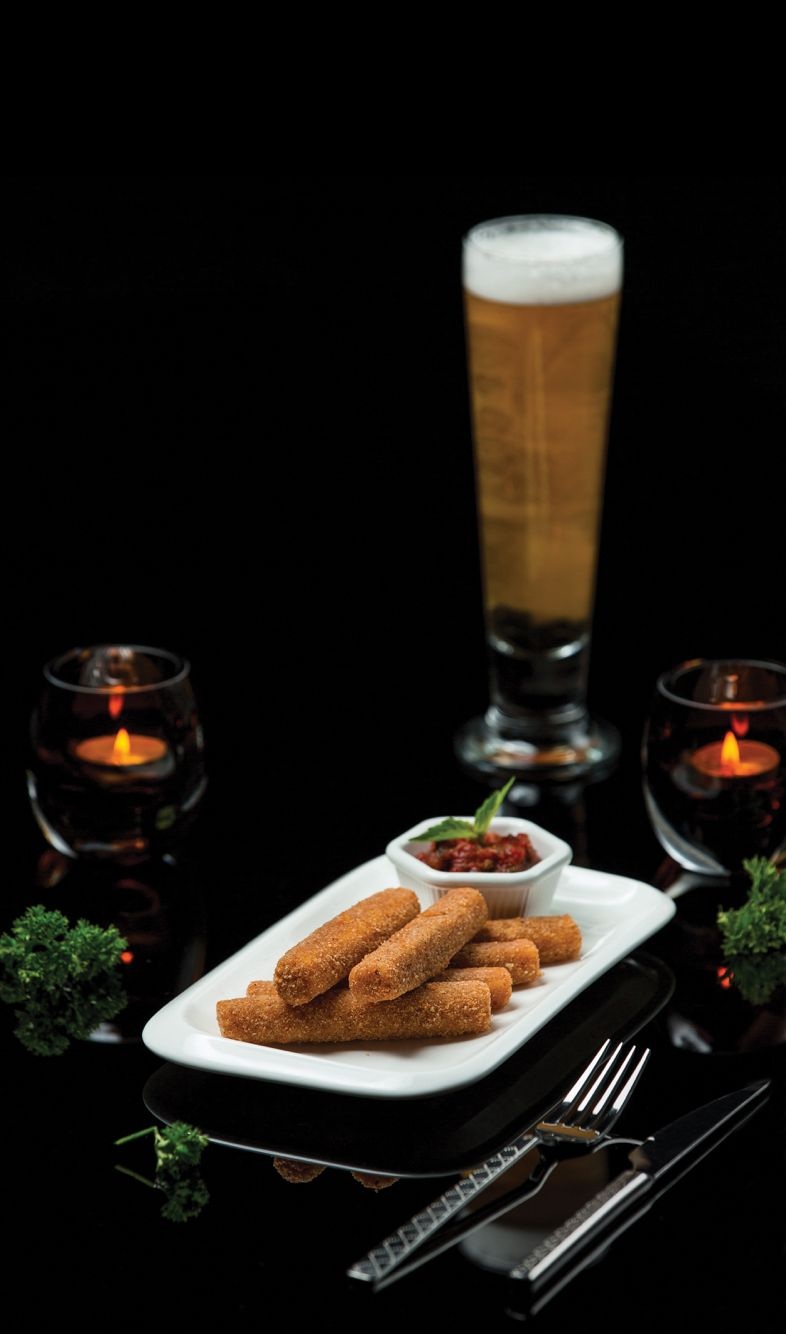
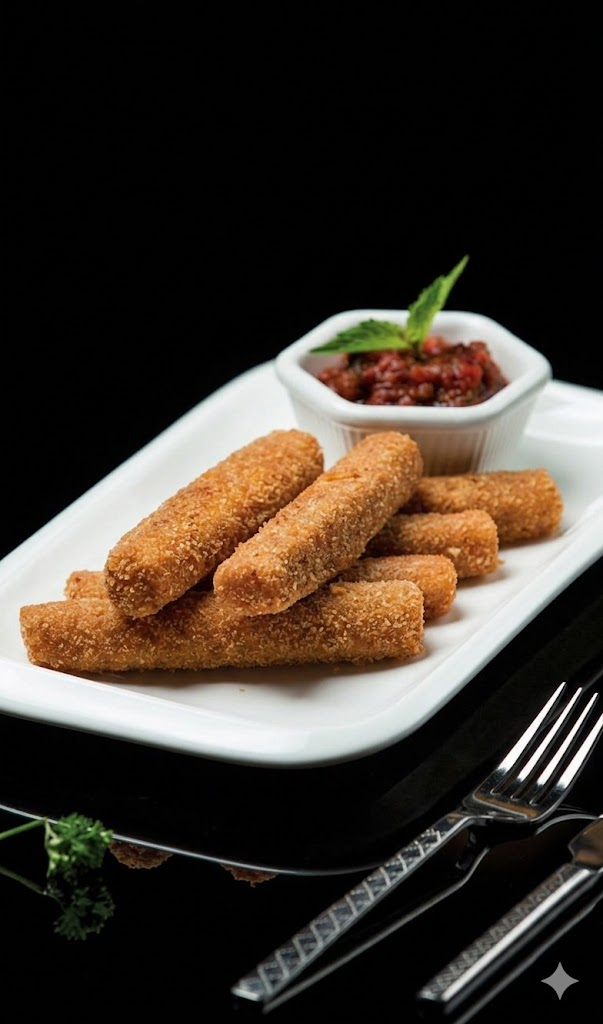
menu1-updated

diff --git a/src/pages/Home.jsx b/src/pages/Home.jsx
@@ -14,6 +14,18 @@ import logo35 from '../asserts/35logo.png';
 import logoMain from '../asserts/house-of-biryani.png';
 import vector from '../asserts/Vector.png';
 
+import menu1 from '../asserts/menu1.jpg';
+import menu2 from '../asserts/menu2.jpg';
+import menu3 from '../asserts/menu3.jpg';
+import menu4 from '../asserts/menu4.jpg';
+
+const menuImageMap = {
+  '/menu1.jpg': menu1,
+  '/menu2.jpg': menu2,
+  '/menu3.jpg': menu3,
+  '/menu4.jpg': menu4,
+};
+
 const baseGalleryItems = [
   { id: 1, image: gallery1, name: 'South Indian Thali' },
   { id: 2, image: gallery2, name: 'Chicken Tikka Kebab' },
@@ -324,7 +336,7 @@ const Home = () => {
                     }`}
                 >
                   <img
-                    src={item.image}
+                    src={menuImageMap[item.image] || item.image}
                     alt={item.name}
                     className="w-full h-full object-cover transition-transform duration-700 group-hover:scale-110"
                   />
